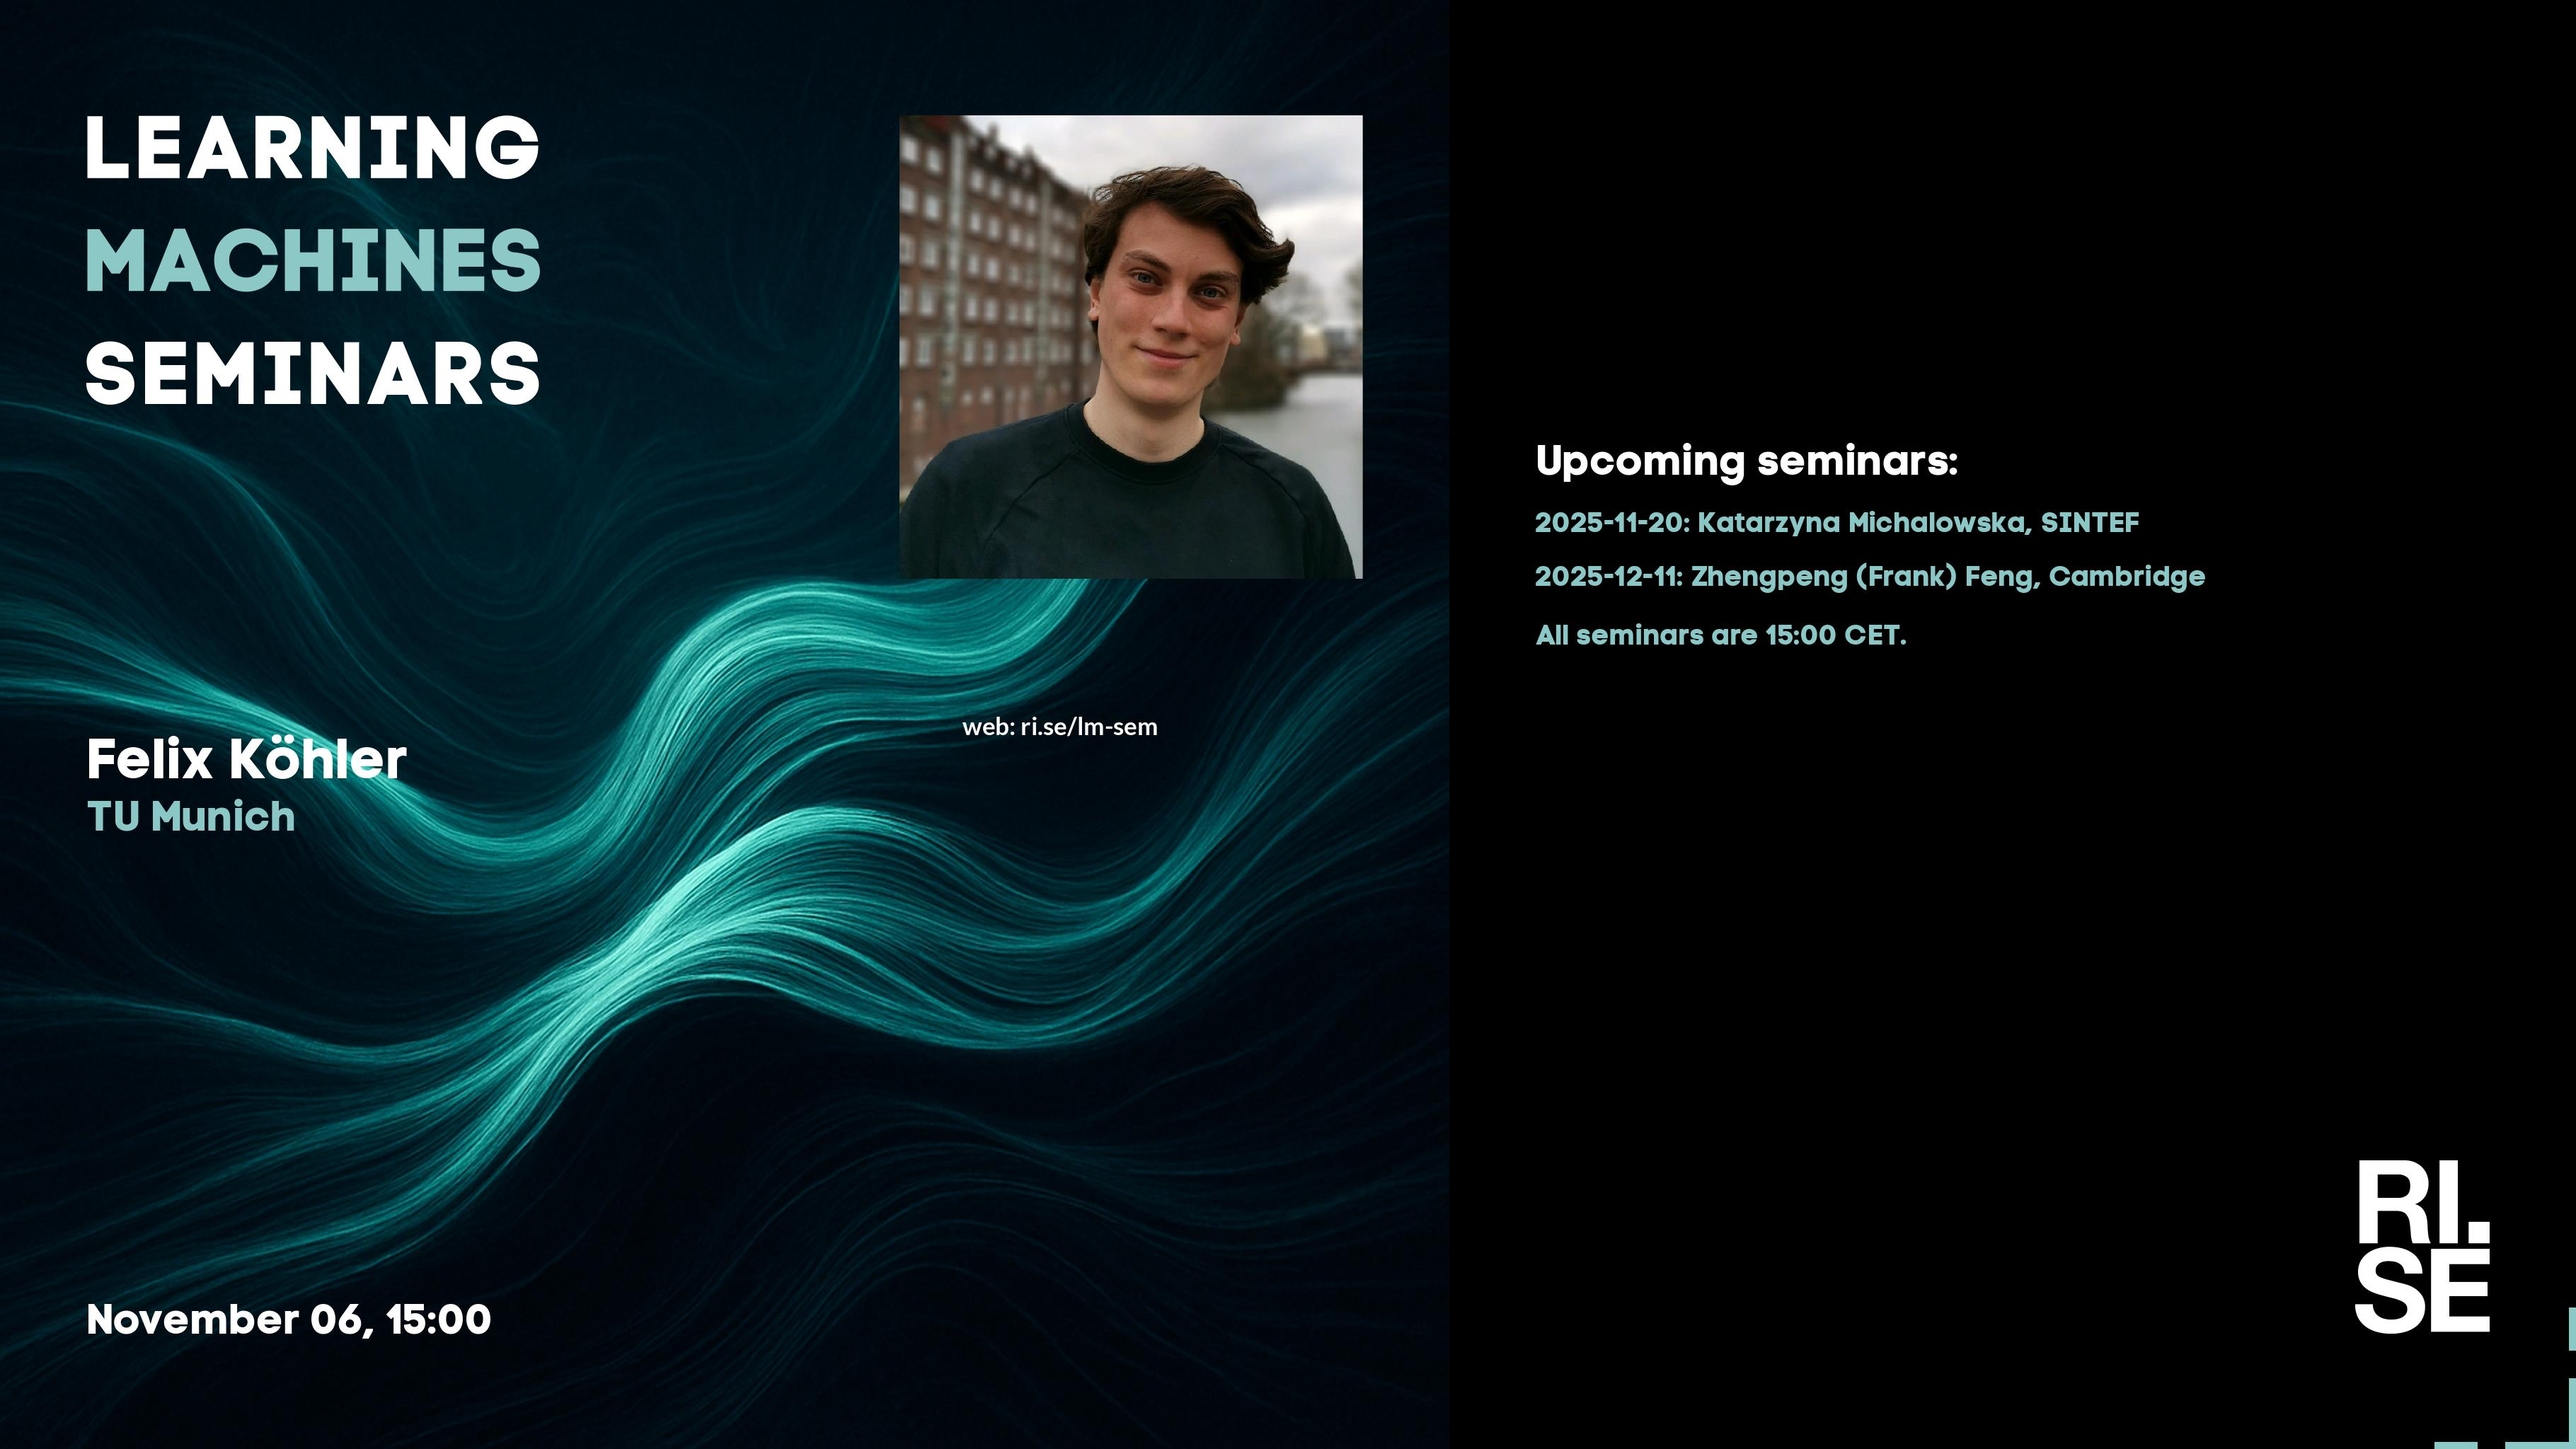
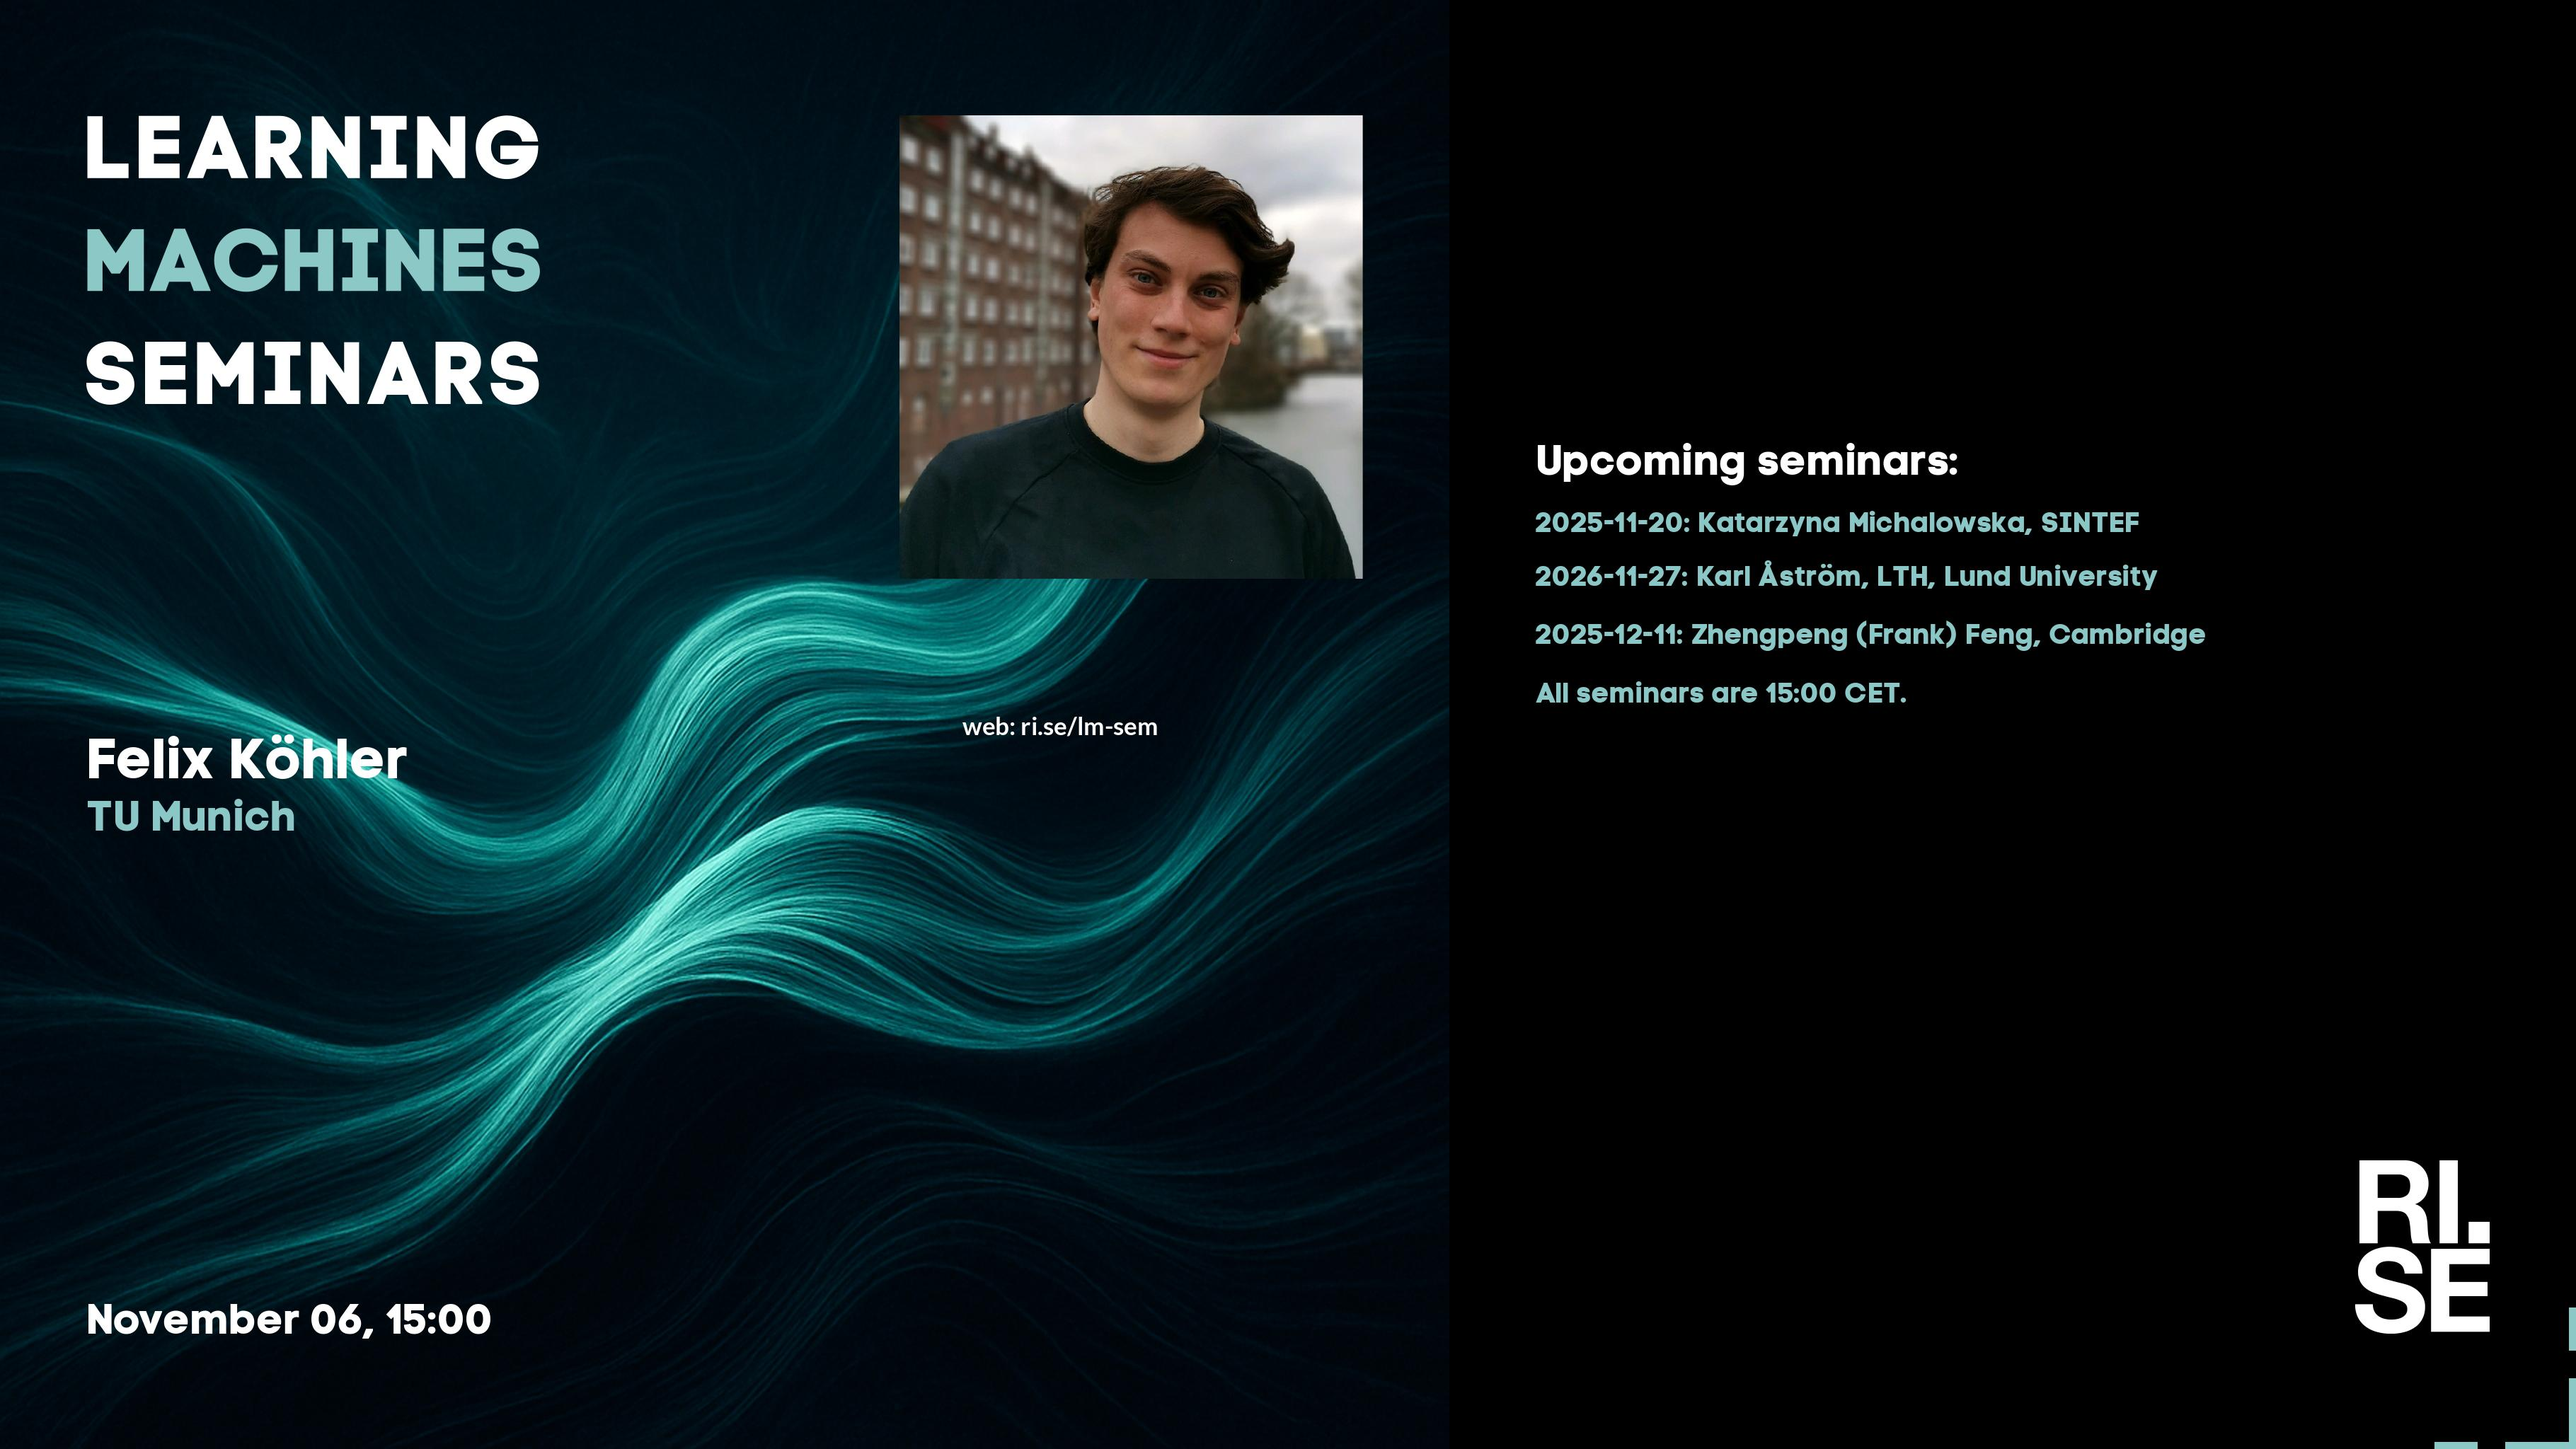
Updated plan on web site.

Changed region(s): [[0.5898, 0.375, 0.8692, 0.5]]

diff --git a/lm/2025.md b/lm/2025.md
@@ -40,9 +40,9 @@ table {border-collapse: collapse;}
 |  2025-10-23  |  [Nora Gourmelon, Friedrich-Alexander-Universität Erlangen-Nürnberg (FAU)](2025-10-23.md)  |  [photo](2025-10-23-photo-nora-gourmelon.jpg)  |  [social media bg ](2025-10-23-social-media-bg-nora-gourmelon.jpg) --- [social media photo ](2025-10-23-social-media-photo-nora-gourmelon.jpg) --- [social media 169 ](2025-10-23-social-media-169-nora-gourmelon.jpg)  |  [meeting backdrop ](2025-10-23-meeting-backdrop-nora-gourmelon.jpg)  |  [youtube thumbnail ](2025-10-23-youtube-thumbnail-nora-gourmelon.jpg)  |  STABP  |
 |  2025-11-06  |  [Felix Köhler, TU Munich](2025-11-06.md)  |  [photo](2025-11-06-photo-felix-kohler.jpg)  |  [social media bg ](2025-11-06-social-media-bg-felix-kohler.jpg) --- [social media photo ](2025-11-06-social-media-photo-felix-kohler.jpg) --- [social media 169 ](2025-11-06-social-media-169-felix-kohler.jpg)  |  [meeting backdrop ](2025-11-06-meeting-backdrop-felix-kohler.jpg)  |  [youtube thumbnail ](2025-11-06-youtube-thumbnail-felix-kohler.jpg)  |  S~~TAB~~P  |
 |  2025-11-20  |  [Katarzyna Michalowska, SINTEF](2025-11-20.md)  |  [photo](2025-11-20-photo-katarzyna-michalowska.jpg)  |  [social media bg ](2025-11-20-social-media-bg-katarzyna-michalowska.jpg) --- [social media photo ](2025-11-20-social-media-photo-katarzyna-michalowska.jpg) --- [social media 169 ](2025-11-20-social-media-169-katarzyna-michalowska.jpg)  |  [meeting backdrop ](2025-11-20-meeting-backdrop-katarzyna-michalowska.jpg)  |  [youtube thumbnail ](2025-11-20-youtube-thumbnail-katarzyna-michalowska.jpg)  |  S~~TAB~~P  |
-| <span style="color:purple"> 2025-11-27 </span> | <span style="color:purple"> *Up for grabs!!!* </span> | <span style="color:purple">  </span> | <span style="color:purple">  ---  ---  </span> | <span style="color:purple">  </span> | <span style="color:purple">  </span> | <span style="color:purple"> ~~STABP~~ </span> |
+|  2026-11-27  |  [Karl Åström, LTH, Lund University](2026-11-27.md)  |    |  [social media bg ](2026-11-27-social-media-bg-karl-astrom.jpg) --- [social media photo ](2026-11-27-social-media-photo-karl-astrom.jpg) --- [social media 169 ](2026-11-27-social-media-169-karl-astrom.jpg)  |  [meeting backdrop ](2026-11-27-meeting-backdrop-karl-astrom.jpg)  |  [youtube thumbnail ](2026-11-27-youtube-thumbnail-karl-astrom.jpg)  |  S~~TABP~~  |
 |  2025-12-11  |  [Zhengpeng (Frank) Feng, Cambridge](2025-12-11.md)  |    |  [social media bg ](2025-12-11-social-media-bg-zhengpeng-(frank)-feng.jpg) --- [social media photo ](2025-12-11-social-media-photo-zhengpeng-(frank)-feng.jpg) --- [social media 169 ](2025-12-11-social-media-169-zhengpeng-(frank)-feng.jpg)  |  [meeting backdrop ](2025-12-11-meeting-backdrop-zhengpeng-(frank)-feng.jpg)  |  [youtube thumbnail ](2025-12-11-youtube-thumbnail-zhengpeng-(frank)-feng.jpg)  |  STAB~~P~~  |
-|  2026-01-22  |  [Karl Åström, LTH, Lund University](2026-01-22.md)  |    |  [social media bg ](2026-01-22-social-media-bg-karl-astrom.jpg) --- [social media photo ](2026-01-22-social-media-photo-karl-astrom.jpg) --- [social media 169 ](2026-01-22-social-media-169-karl-astrom.jpg)  |  [meeting backdrop ](2026-01-22-meeting-backdrop-karl-astrom.jpg)  |  [youtube thumbnail ](2026-01-22-youtube-thumbnail-karl-astrom.jpg)  |  S~~TABP~~  |
+| <span style="color:purple"> 2025-01-22 </span> | <span style="color:purple"> *Up for grabs!!!* </span> | <span style="color:purple">  </span> | <span style="color:purple">  ---  ---  </span> | <span style="color:purple">  </span> | <span style="color:purple">  </span> | <span style="color:purple"> ~~STABP~~ </span> |
 | <span style="color:purple"> 2026-02-05 </span> | <span style="color:purple"> *Up for grabs!!!* </span> | <span style="color:purple">  </span> | <span style="color:purple">  ---  ---  </span> | <span style="color:purple">  </span> | <span style="color:purple">  </span> | <span style="color:purple"> ~~STABP~~ </span> |
 | <span style="color:purple"> 2026-03-05 </span> | <span style="color:purple"> *Up for grabs!!!* </span> | <span style="color:purple">  </span> | <span style="color:purple">  ---  ---  </span> | <span style="color:purple">  </span> | <span style="color:purple">  </span> | <span style="color:purple"> ~~STABP~~ </span> |
 | <span style="color:purple"> 2026-03-19 </span> | <span style="color:purple"> *Up for grabs!!!* </span> | <span style="color:purple">  </span> | <span style="color:purple">  ---  ---  </span> | <span style="color:purple">  </span> | <span style="color:purple">  </span> | <span style="color:purple"> ~~STABP~~ </span> |

diff --git a/lm/index.md b/lm/index.md
@@ -40,9 +40,9 @@ table {border-collapse: collapse;}
 |  2025-10-23  |  [Nora Gourmelon, Friedrich-Alexander-Universität Erlangen-Nürnberg (FAU)](2025-10-23.md)  |  [photo](2025-10-23-photo-nora-gourmelon.jpg)  |  [social media bg ](2025-10-23-social-media-bg-nora-gourmelon.jpg) --- [social media photo ](2025-10-23-social-media-photo-nora-gourmelon.jpg) --- [social media 169 ](2025-10-23-social-media-169-nora-gourmelon.jpg)  |  [meeting backdrop ](2025-10-23-meeting-backdrop-nora-gourmelon.jpg)  |  [youtube thumbnail ](2025-10-23-youtube-thumbnail-nora-gourmelon.jpg)  |  STABP  |
 |  2025-11-06  |  [Felix Köhler, TU Munich](2025-11-06.md)  |  [photo](2025-11-06-photo-felix-kohler.jpg)  |  [social media bg ](2025-11-06-social-media-bg-felix-kohler.jpg) --- [social media photo ](2025-11-06-social-media-photo-felix-kohler.jpg) --- [social media 169 ](2025-11-06-social-media-169-felix-kohler.jpg)  |  [meeting backdrop ](2025-11-06-meeting-backdrop-felix-kohler.jpg)  |  [youtube thumbnail ](2025-11-06-youtube-thumbnail-felix-kohler.jpg)  |  S~~TAB~~P  |
 |  2025-11-20  |  [Katarzyna Michalowska, SINTEF](2025-11-20.md)  |  [photo](2025-11-20-photo-katarzyna-michalowska.jpg)  |  [social media bg ](2025-11-20-social-media-bg-katarzyna-michalowska.jpg) --- [social media photo ](2025-11-20-social-media-photo-katarzyna-michalowska.jpg) --- [social media 169 ](2025-11-20-social-media-169-katarzyna-michalowska.jpg)  |  [meeting backdrop ](2025-11-20-meeting-backdrop-katarzyna-michalowska.jpg)  |  [youtube thumbnail ](2025-11-20-youtube-thumbnail-katarzyna-michalowska.jpg)  |  S~~TAB~~P  |
-| <span style="color:purple"> 2025-11-27 </span> | <span style="color:purple"> *Up for grabs!!!* </span> | <span style="color:purple">  </span> | <span style="color:purple">  ---  ---  </span> | <span style="color:purple">  </span> | <span style="color:purple">  </span> | <span style="color:purple"> ~~STABP~~ </span> |
+|  2026-11-27  |  [Karl Åström, LTH, Lund University](2026-11-27.md)  |    |  [social media bg ](2026-11-27-social-media-bg-karl-astrom.jpg) --- [social media photo ](2026-11-27-social-media-photo-karl-astrom.jpg) --- [social media 169 ](2026-11-27-social-media-169-karl-astrom.jpg)  |  [meeting backdrop ](2026-11-27-meeting-backdrop-karl-astrom.jpg)  |  [youtube thumbnail ](2026-11-27-youtube-thumbnail-karl-astrom.jpg)  |  S~~TABP~~  |
 |  2025-12-11  |  [Zhengpeng (Frank) Feng, Cambridge](2025-12-11.md)  |    |  [social media bg ](2025-12-11-social-media-bg-zhengpeng-(frank)-feng.jpg) --- [social media photo ](2025-12-11-social-media-photo-zhengpeng-(frank)-feng.jpg) --- [social media 169 ](2025-12-11-social-media-169-zhengpeng-(frank)-feng.jpg)  |  [meeting backdrop ](2025-12-11-meeting-backdrop-zhengpeng-(frank)-feng.jpg)  |  [youtube thumbnail ](2025-12-11-youtube-thumbnail-zhengpeng-(frank)-feng.jpg)  |  STAB~~P~~  |
-|  2026-01-22  |  [Karl Åström, LTH, Lund University](2026-01-22.md)  |    |  [social media bg ](2026-01-22-social-media-bg-karl-astrom.jpg) --- [social media photo ](2026-01-22-social-media-photo-karl-astrom.jpg) --- [social media 169 ](2026-01-22-social-media-169-karl-astrom.jpg)  |  [meeting backdrop ](2026-01-22-meeting-backdrop-karl-astrom.jpg)  |  [youtube thumbnail ](2026-01-22-youtube-thumbnail-karl-astrom.jpg)  |  S~~TABP~~  |
+| <span style="color:purple"> 2025-01-22 </span> | <span style="color:purple"> *Up for grabs!!!* </span> | <span style="color:purple">  </span> | <span style="color:purple">  ---  ---  </span> | <span style="color:purple">  </span> | <span style="color:purple">  </span> | <span style="color:purple"> ~~STABP~~ </span> |
 | <span style="color:purple"> 2026-02-05 </span> | <span style="color:purple"> *Up for grabs!!!* </span> | <span style="color:purple">  </span> | <span style="color:purple">  ---  ---  </span> | <span style="color:purple">  </span> | <span style="color:purple">  </span> | <span style="color:purple"> ~~STABP~~ </span> |
 | <span style="color:purple"> 2026-03-05 </span> | <span style="color:purple"> *Up for grabs!!!* </span> | <span style="color:purple">  </span> | <span style="color:purple">  ---  ---  </span> | <span style="color:purple">  </span> | <span style="color:purple">  </span> | <span style="color:purple"> ~~STABP~~ </span> |
 | <span style="color:purple"> 2026-03-19 </span> | <span style="color:purple"> *Up for grabs!!!* </span> | <span style="color:purple">  </span> | <span style="color:purple">  ---  ---  </span> | <span style="color:purple">  </span> | <span style="color:purple">  </span> | <span style="color:purple"> ~~STABP~~ </span> |

diff --git a/lm/2026-11-27.md b/lm/2026-11-27.md
@@ -2,13 +2,13 @@
 layout: default
 metatags: "<meta name=\"robots\" content=\"noindex,nofollow\" />"
 ---
-<img src="/lm/2025-11-06-youtube-thumbnail-felix-köhler.jpg" />
+<img src="/lm/2026-11-27-youtube-thumbnail-karl-åström.jpg" />
  
 Welcome to this week's Learning Machines seminar.
 
 **Title:** N/A
 
-**Speaker:** Felix Köhler, TU Munich
+**Speaker:** Karl Åström, LTH, Lund University
 
 **Abstract:** N/A
 
@@ -16,15 +16,12 @@ Welcome to this week's Learning Machines seminar.
 
 **Location:** This is an online seminar. Connect using Zoom.
 
-**Date:** 2025-11-06 15:00
+**Date:** 2026-11-27 15:00
 
-**Zoom link:** [https://rise.zoom.us/j/69691371971?pwd=V00oH84C29zHvOk04bZJF7Exs0MScL.1](https://rise.zoom.us/j/69691371971?pwd=V00oH84C29zHvOk04bZJF7Exs0MScL.1)
+**Zoom link:** [N/A](N/A)
 
 **Upcoming seminars:**
 
-* 2025-11-20: Katarzyna Michalowska, SINTEF
-* 2026-11-27: Karl Åström, LTH, Lund University
-* 2025-12-11: Zhengpeng (Frank) Feng, Cambridge
 * All seminars are 15:00 CET.
 
 More information and coming seminars: [https://ri.se/lm-sem](https://ri.se/lm-sem)

diff --git a/lm/2025-10-23.md b/lm/2025-10-23.md
@@ -30,7 +30,8 @@ Therefore, we compiled an unlabeled dataset of Sentinel-1 SAR image sequences of
 
 * 2025-11-06: Felix Köhler, TU Munich
 * 2025-11-20: Katarzyna Michalowska, SINTEF
-* 2025-12-11: Zhengpeng Feng, Cambridge
+* 2026-11-27: Karl Åström, LTH, Lund University
+* 2025-12-11: Zhengpeng (Frank) Feng, Cambridge
 * All seminars are 15:00 CET.
 
 More information and coming seminars: [https://ri.se/lm-sem](https://ri.se/lm-sem)

diff --git a/lm/2025-11-20.md b/lm/2025-11-20.md
@@ -22,8 +22,8 @@ Welcome to this week's Learning Machines seminar.
 
 **Upcoming seminars:**
 
+* 2026-11-27: Karl Åström, LTH, Lund University
 * 2025-12-11: Zhengpeng (Frank) Feng, Cambridge
-* 2026-01-22: Karl Åström, LTH, Lund University
 * All seminars are 15:00 CET.
 
 More information and coming seminars: [https://ri.se/lm-sem](https://ri.se/lm-sem)
